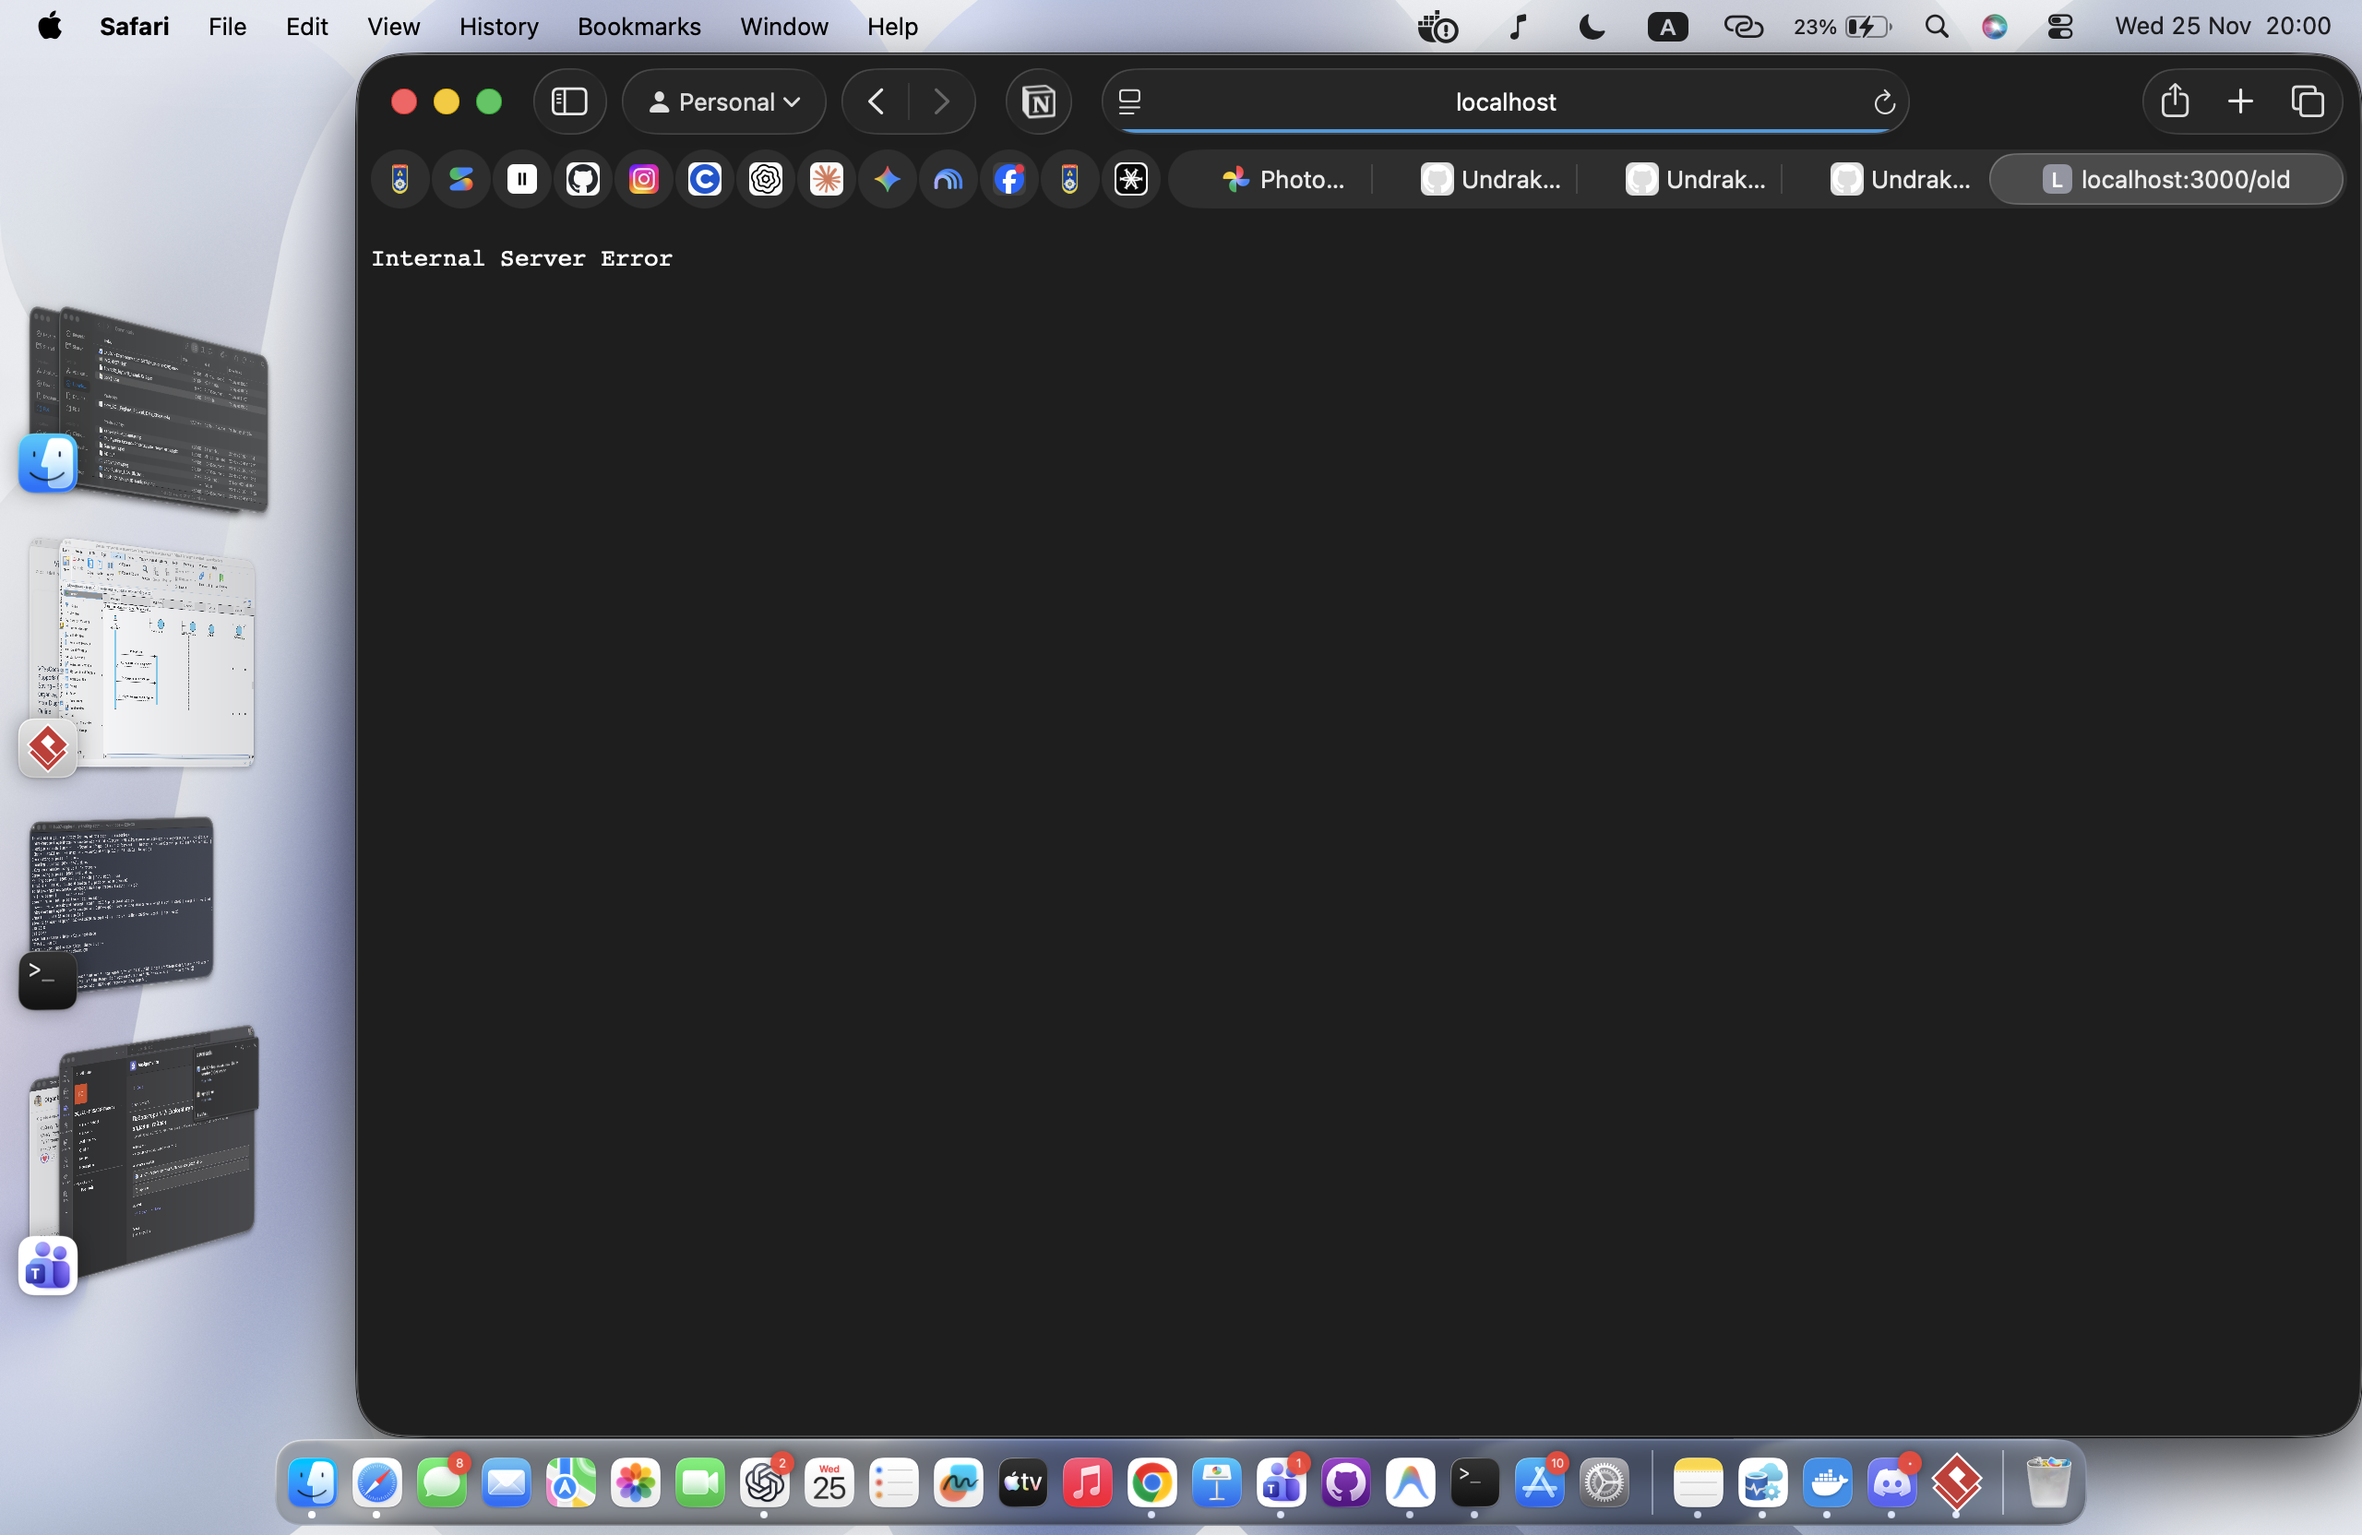
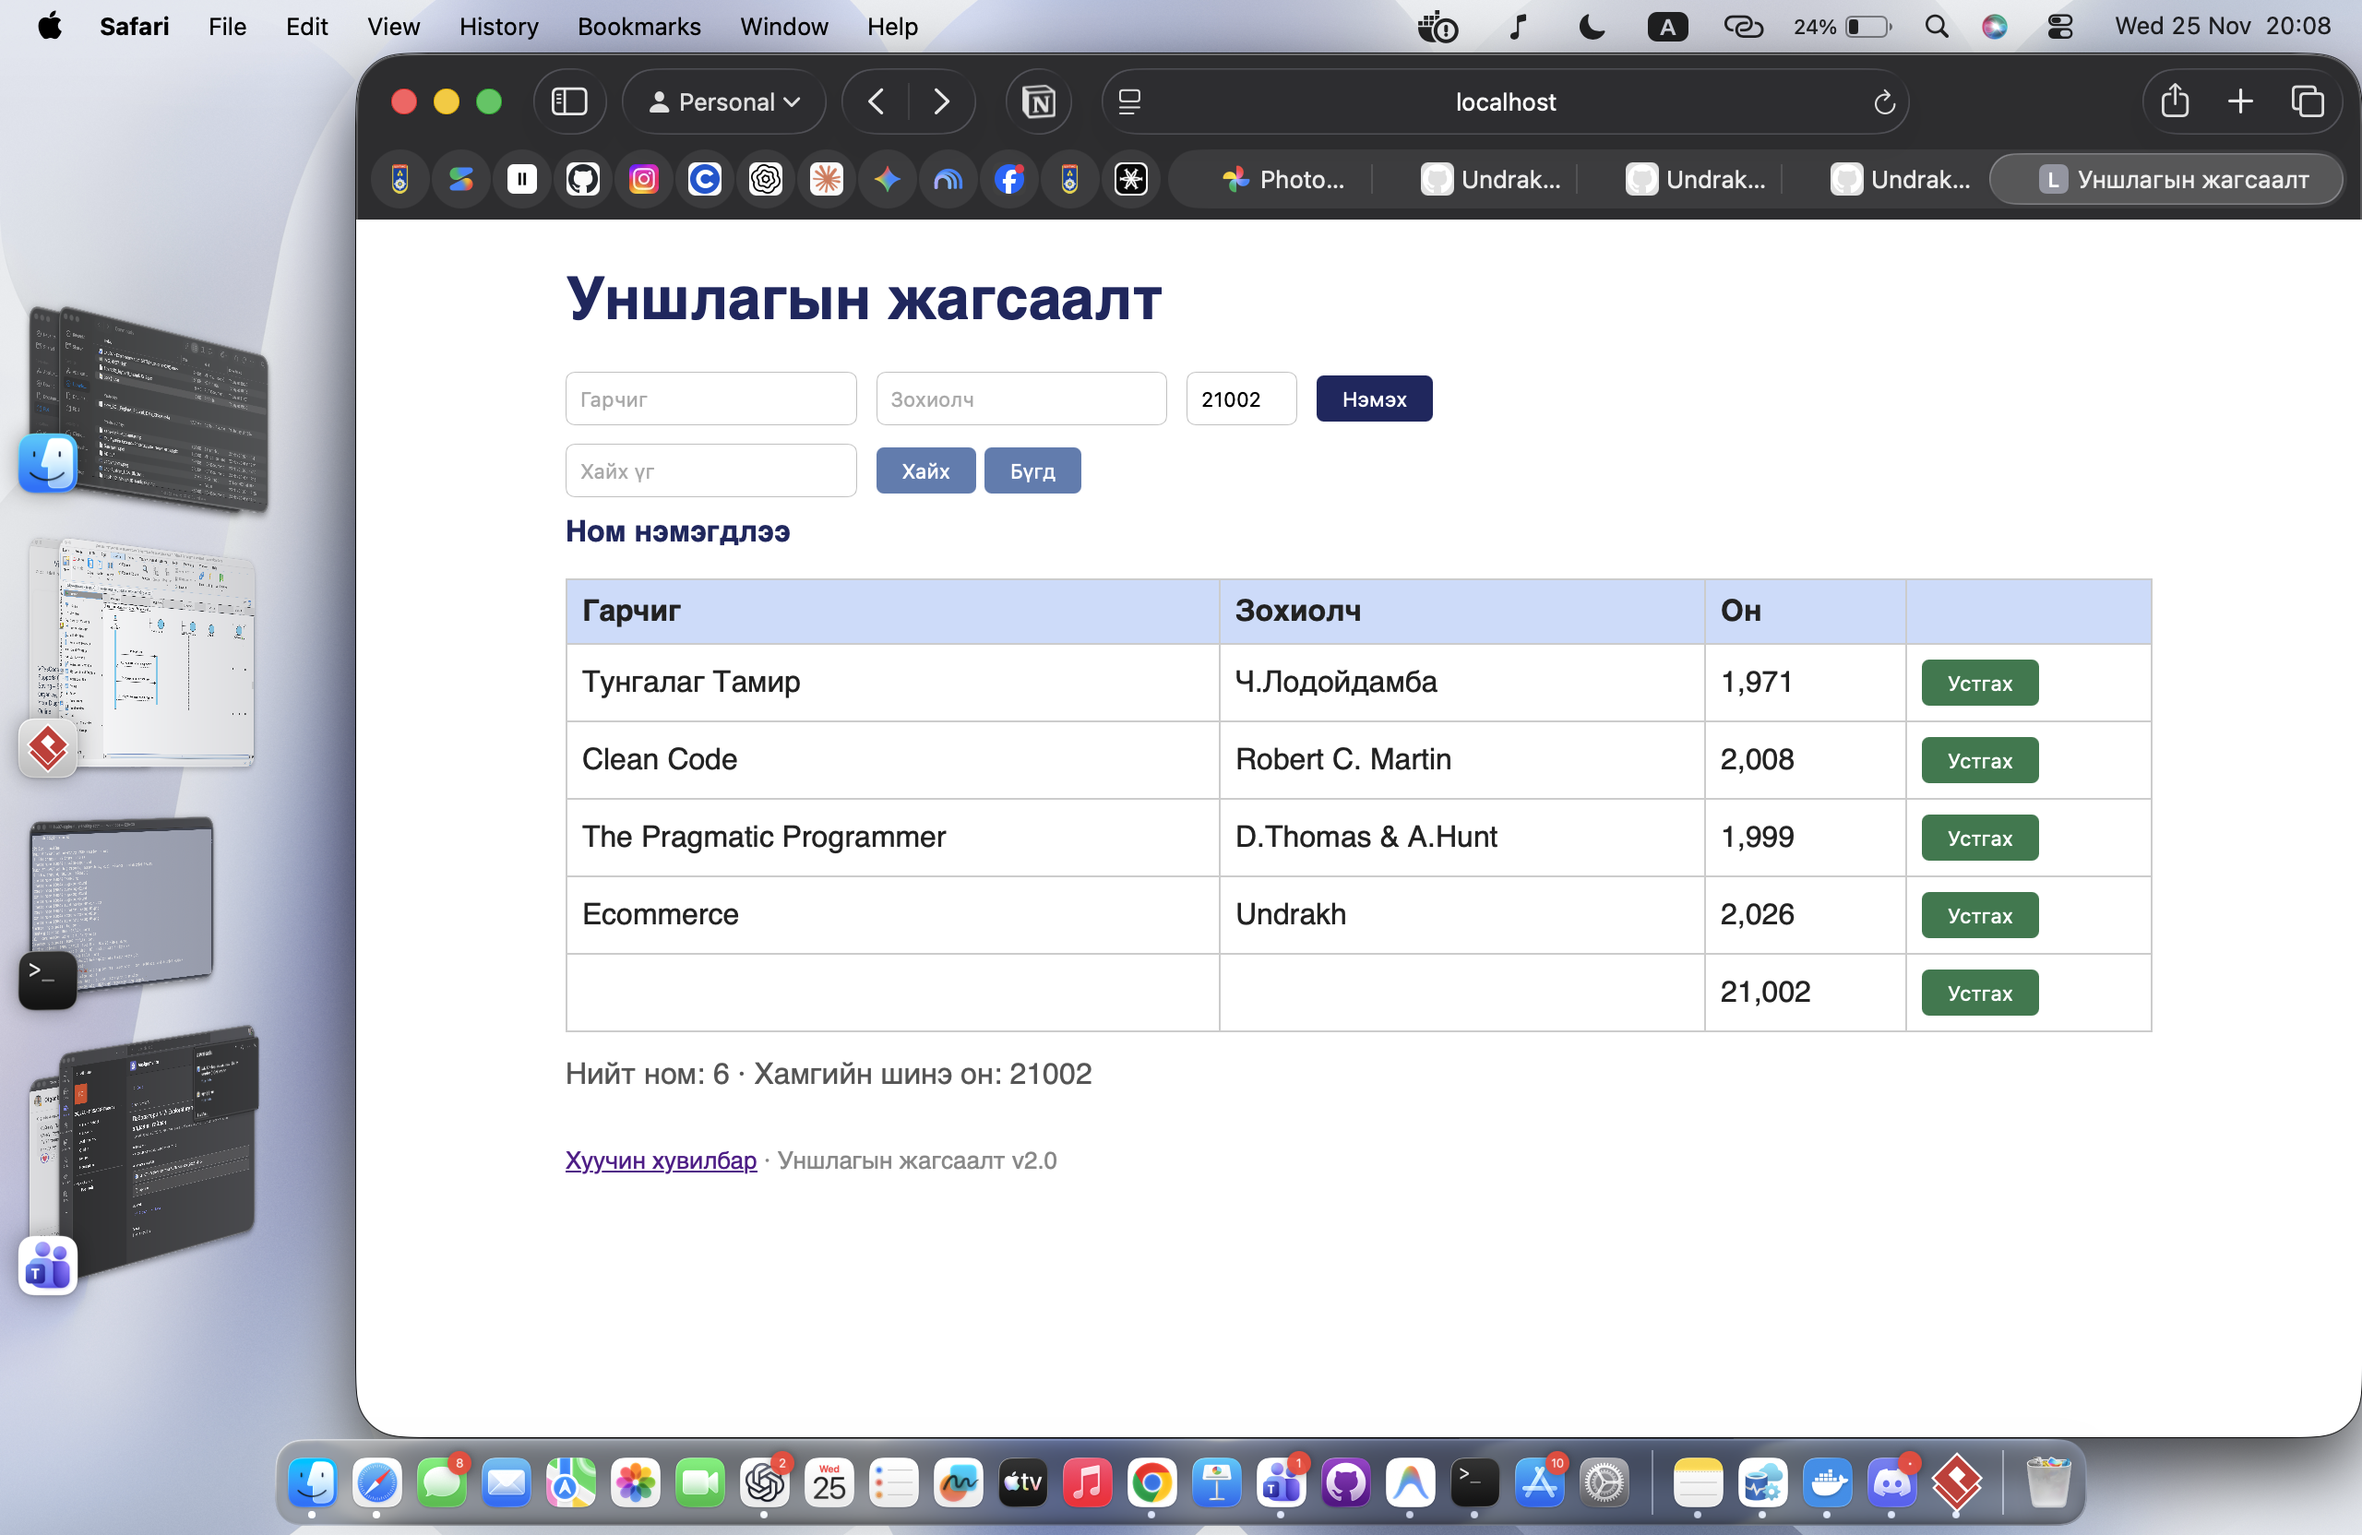
Update distinct screenshots and align BUG-03 with Internal Server Error evidence

diff --git a/bugs/bug-03.md b/bugs/bug-03.md
@@ -1,17 +1,16 @@
-# BUG-03: «Нийт ном» тоолуур хүснэгтэд буй бодит номын тооноос 1-ээр илүү гарч байна
+# BUG-03: «Хуучин хувилбар» линк дээр дарахад Internal Server Error (500) гарч байна
 
 Орчин:  Уншлагын жагсаалт v2.0, Safari, macOS, 2026-11-25
-Урьдчилсан нөхцөл: node app.js-ийг шинээр асаасан (анхны 3 ном)
+Урьдчилсан нөхцөл: node app.js-ийг шинээр асаасан
 
 ## Дахин гаргах алхам
 1. Терминал дээр `node app.js` коммандаар серверийг асаана.
-2. Браузер дээр `http://localhost:3000` хаягийг нээж анхны 3 ном байгааг шалгана.
-3. Гарчиг талбарт `Ecommerce`, Зохиолч талбарт `Undrakh`, Он талбарт `2026` гэж оруулаад «Нэмэх» товч дарна.
-4. Хүснэгтэд нийт хэдэн мөр ном байгааг болон хүснэгтийн доорх «Нийт ном» тоолуурыг харьцуулна.
+2. Браузер дээр `http://localhost:3000` хаягийг нээнэ.
+3. Хуудасны доод хэсэгт байрлах «Хуучин хувилбар» линк (`/old` гэх мэт) дээр дарна.
 
-Хүлээгдэж байсан: Спецификацийн 7-р дүрмийн дагуу «Нийт ном» тоолуур хүснэгтэд буй номын тоотой тэнцүү (`4`) байна.
-Бодит үр дүн:     Хүснэгтэд яг 4 ном байгаа боловч доор нь «Нийт ном: 5» гэж 1-ээр зөрүүтэй (off-by-one) тоолж харуулж байна.
+Хүлээгдэж байсан: Спецификацийн 8-р дүрмийн дагуу бүх хуудас, линк алдаагүй ажиллана (эсвэл хуучин хувилбарын хуудас нээгдэнэ).
+Бодит үр дүн:     Хуудсанд «Internal Server Error» гэсэн алдаа гарч ажиллахгүй байна.
 
-Ноцтой байдал: Major — Хэрэглэгчид харагдах үндсэн тооцоолол, статистик мэдээлэл буруу гарч байгаа тул өгөгдлийн найдвартай байдалд сөргөөр нөлөөлнө.
+Ноцтой байдал: Major — Хэрэглэгчид харагдах линк дээр дарахад сервер дотоод алдаа (500) зааж эвдэрч байна.
 Хавсралт:      ![BUG-03](../screenshots/bug-03.png)
-Олдсон аялал:  Fed-Ex Tour (Business District)
+Олдсон аялал:  Antisocial Tour (Seedy District)
